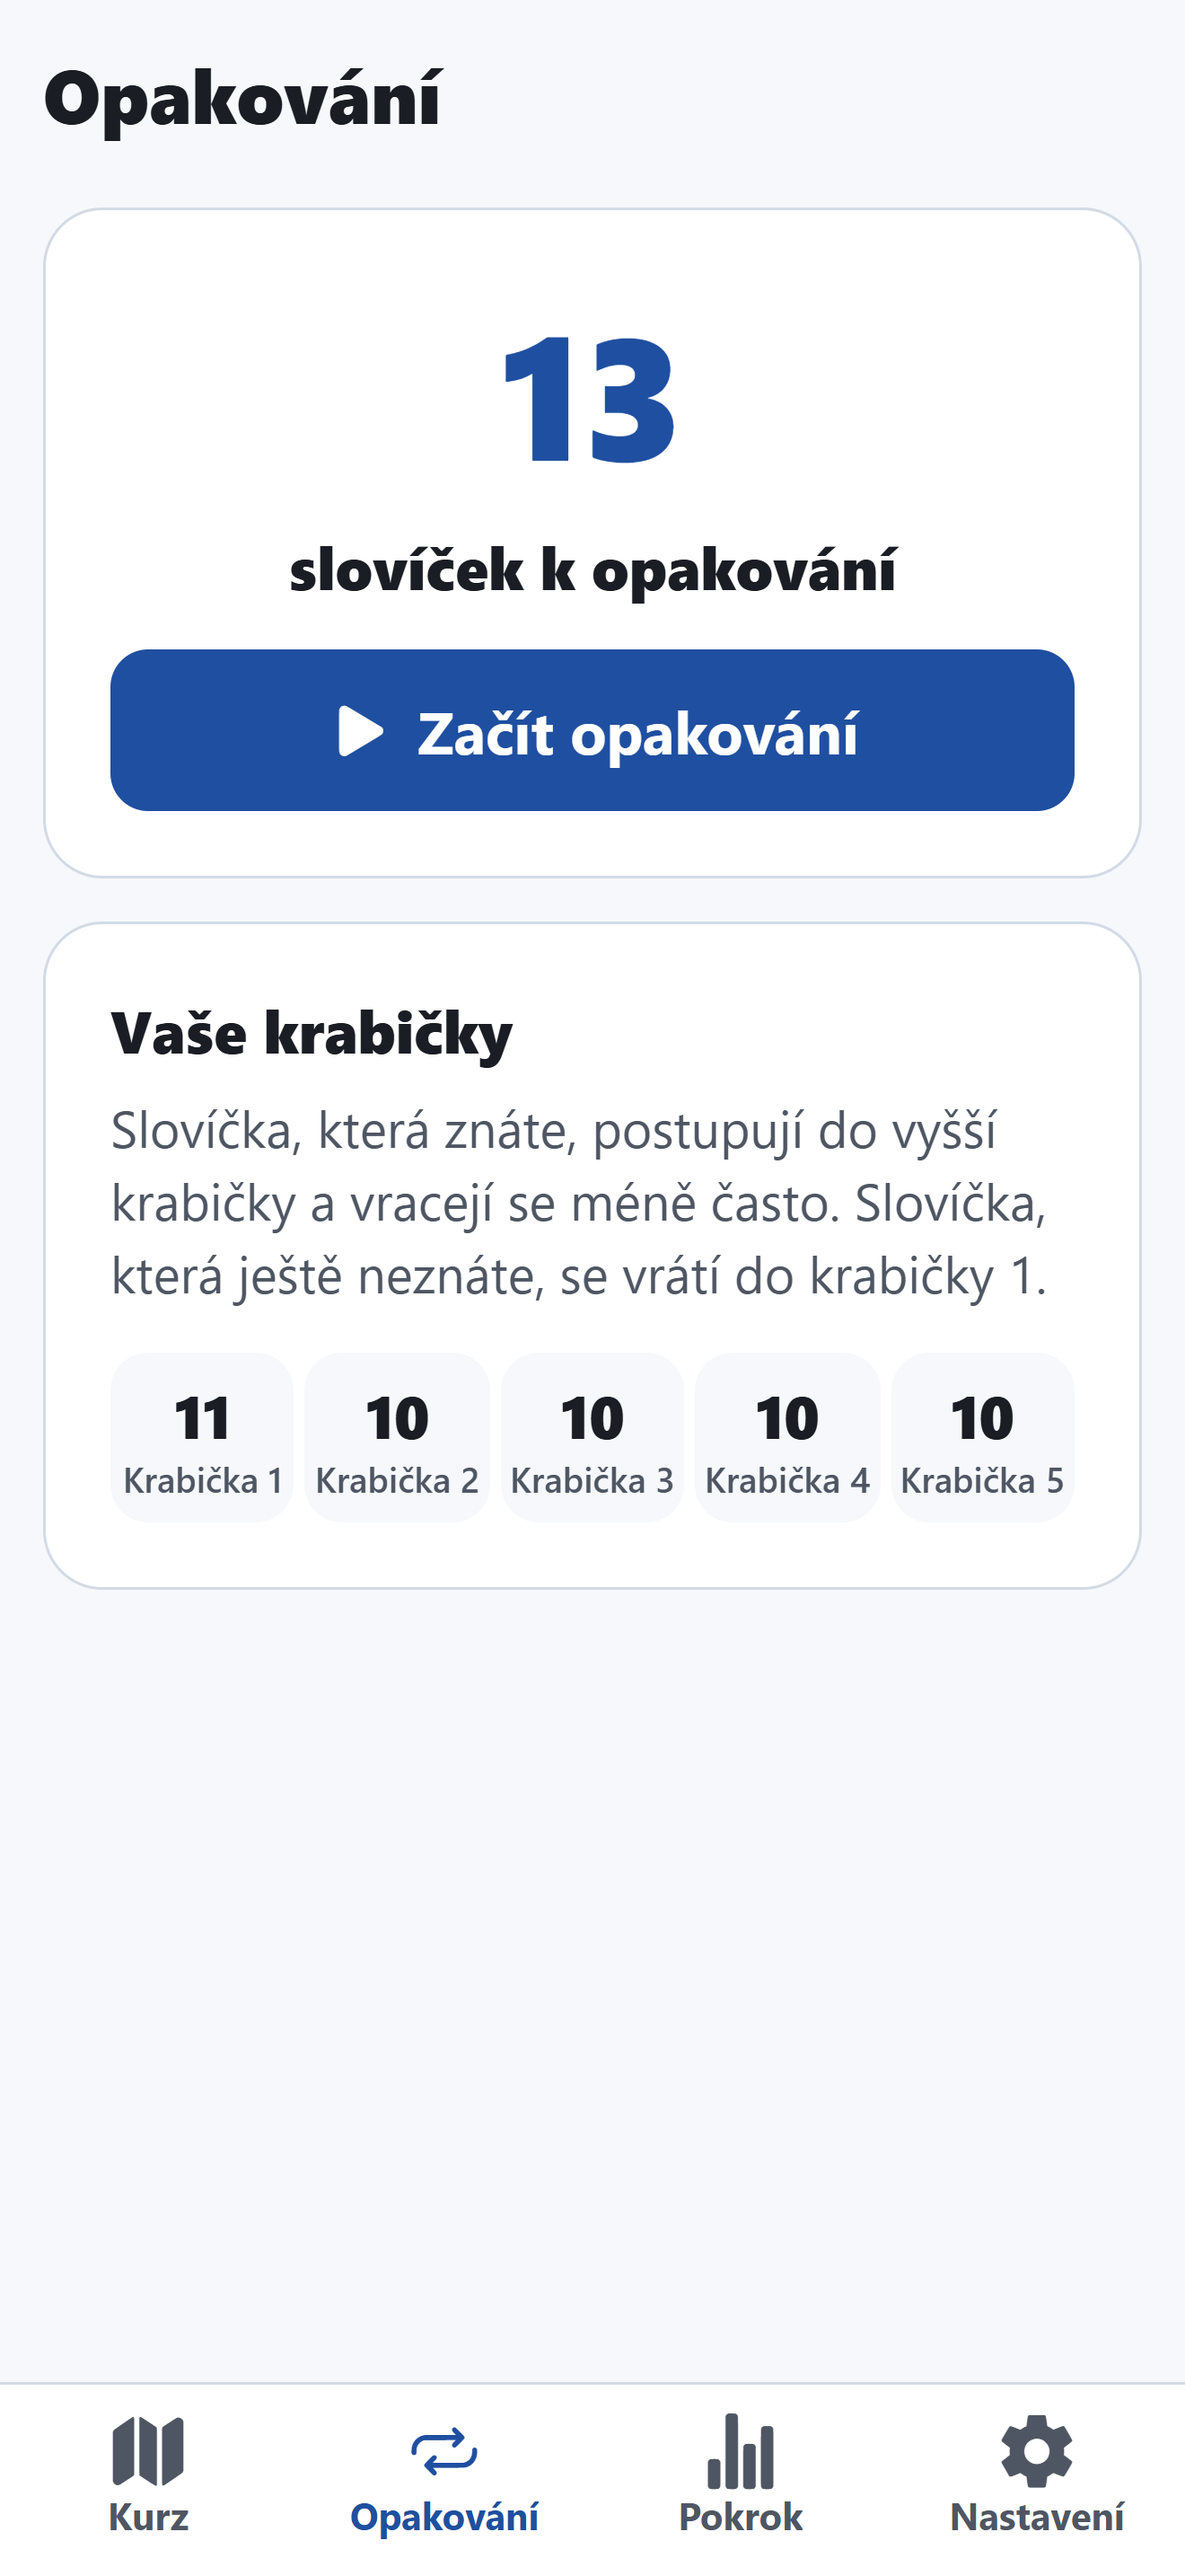
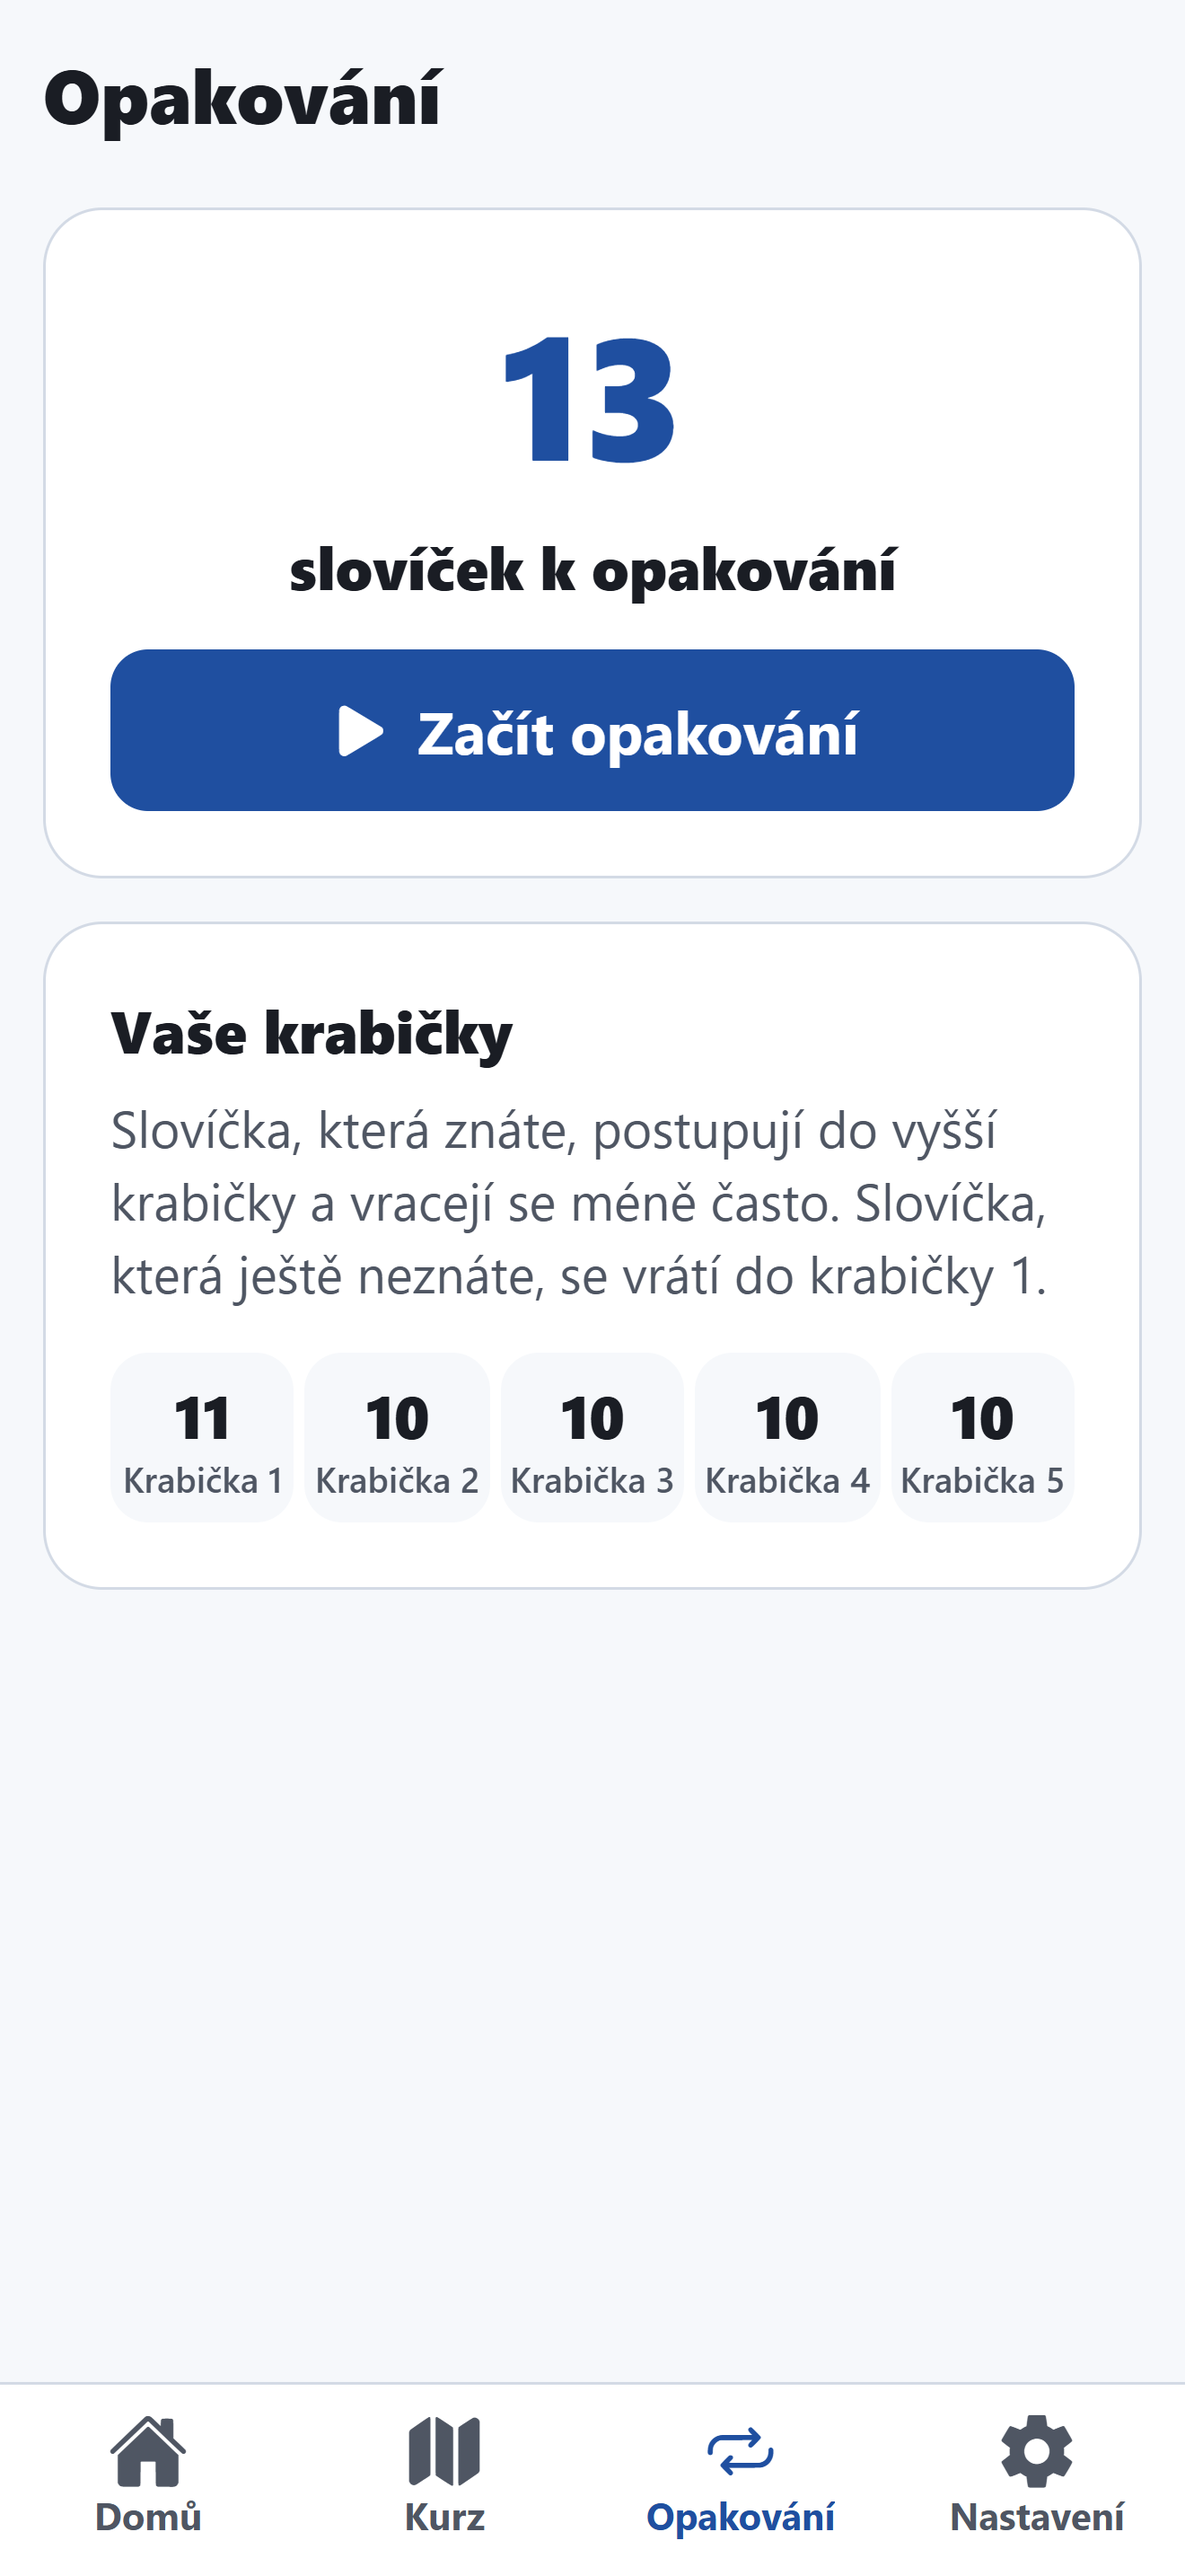
Refresh the store screenshots and add the English listing
Screenshots now open with the home screen and there is a full Romanian set.
The listing texts mention the daily reminder; the privacy page says it stays on the phone.

Claude-Session: https://claude.ai/code/session_017FVpQPx5NevvuaJghM5UMA

Changed region(s): [[0.5591, 0.931, 0.7144, 0.993], [0.3106, 0.931, 0.4659, 0.993], [0.0621, 0.931, 0.1553, 0.993]]

diff --git a/public/privacy.html b/public/privacy.html
@@ -38,12 +38,13 @@
 
   <section id="cs" lang="cs">
     <h2>Zásady ochrany soukromí</h2>
-    <p class="muted">Platné od 22. října 2026</p>
+    <p class="muted">Platné od 5. listopadu 2026</p>
     <p>Aplikace „Učíme se s Elenkou“ (na telefonu „Elenka“) slouží k výuce jazyků. Nemá účty ani reklamy, nesleduje vás a neposílá žádné statistiky o používání.</p>
 
     <h3>Co zůstává jen ve vašem telefonu</h3>
     <ul>
       <li>Váš postup v kurzech, opakování slovíček, nastavení a rodinný kód. Ukládají se pouze do telefonu (nebo prohlížeče) a nikam se neposílají.</li>
+      <li>Denní připomenutí, pokud si ho zapnete. Naplánuje ho přímo váš telefon; nic se kvůli němu nikam neposílá.</li>
       <li>Zálohu vytváříte sami jako text. Kam ji uložíte nebo komu ji pošlete, je na vás.</li>
     </ul>
 
@@ -65,12 +66,13 @@
 
   <section id="en" lang="en-GB">
     <h2>Privacy policy</h2>
-    <p class="muted">Effective from 22 October 2026</p>
+    <p class="muted">Effective from 5 November 2026</p>
     <p>“Učíme se s Elenkou” (shown as “Elenka” on the phone) is a language-learning app. It has no accounts and no adverts, does not track you and does not send any usage statistics.</p>
 
     <h3>What stays on your phone</h3>
     <ul>
       <li>Your course progress, flashcard reviews, settings and family code. They are stored only on your phone (or in your browser) and are not sent anywhere.</li>
+      <li>The daily reminder, if you switch it on. Your phone plans it by itself; nothing is sent anywhere for it.</li>
       <li>You create backups yourself, as text. Where you keep them or whom you send them to is up to you.</li>
     </ul>
 
@@ -92,12 +94,13 @@
 
   <section id="ro" lang="ro">
     <h2>Politica de confidențialitate</h2>
-    <p class="muted">În vigoare de la 22 octombrie 2026</p>
+    <p class="muted">În vigoare de la 5 noiembrie 2026</p>
     <p>„Učíme se s Elenkou” (pe telefon „Elenka”) este o aplicație pentru învățarea limbilor. Nu are conturi și nici reclame, nu te urmărește și nu trimite statistici de utilizare.</p>
 
     <h3>Ce rămâne doar pe telefonul tău</h3>
     <ul>
       <li>Progresul la cursuri, repetarea cuvintelor, setările și codul de familie. Se salvează doar pe telefon (sau în browser) și nu se trimit nicăieri.</li>
+      <li>Mementoul zilnic, dacă îl pornești. Îl planifică telefonul tău; nu se trimite nimic nicăieri pentru el.</li>
       <li>Copia de rezervă o creezi tu, ca text. Unde o păstrezi sau cui o trimiți depinde de tine.</li>
     </ul>
 

diff --git a/store/STORE_LISTING.md b/store/STORE_LISTING.md
@@ -49,6 +49,7 @@ OPAKOVÁNÍ A POKROK
 
 POHODLÍ
 • Velké písmo a velká tlačítka
+• Jemné denní připomenutí, které si můžete zapnout (v aplikaci pro iPhone a Android)
 • Funguje i bez internetu
 • Bez reklam, bez účtu, bez sledování – váš pokrok zůstává jen ve vašem telefonu
 • Zálohu pokroku si můžete uložit jako text a obnovit na jiném telefonu
@@ -98,11 +99,61 @@ RECAPITULARE ȘI PROGRES
 • Vezi cât ai progresat și câte zile la rând ai exersat
 
 • Text mare și butoane mari
+• Un memento zilnic discret, pe care îl poți porni (în aplicația pentru iPhone și Android)
 • Funcționează și fără internet
 • Fără reclame, fără cont, fără urmărire – progresul rămâne doar pe telefonul tău
 
 Aplicația conține și cursuri de engleză, germană și română pentru vorbitorii de cehă.
 Gratuit. Scrie-ne la contact@calmshops.co.uk.
+```
+
+## English (third listing, for Czech and Romanian speakers whose phone is set to English)
+
+Add as en-GB and en-US in App Store Connect (the US store doesn't use en-GB) and in Play Console.
+The screenshots stay Czech on purpose: they show what the app looks like.
+
+**Name**: `Elenka – Learn Languages`
+
+**App Store subtitle** (max 30): `For Czech & Romanian speakers`
+
+**Google Play short description** (max 80):
+`Language lessons in Czech and Romanian. No ads, no account, no stress.`
+
+**App Store keywords**: `czech,romanian,english,german,vocabulary,lessons,beginners,seniors,flashcards,czechia`
+
+**App Store promotional text**:
+`Short, calm language lessons for Czech and Romanian speakers, with voice and word review. No ads, no account, works offline.`
+
+**Description**:
+
+```
+Elenka is a calm language app for Czech and Romanian speakers. It was made for our own family and built so that complete beginners and older learners feel at home.
+
+Please note: the app and all its explanations are in Czech or Romanian. It is not a course for people who only speak English.
+
+COURSES
+• For Czech speakers: English (British), German and Romanian – levels A1, A2 and B1, 90 lessons each
+• For Romanian speakers: Czech – levels A1 and A2, 74 lessons
+
+HOW YOU LEARN
+• Short lessons with clear explanations
+• Varied exercises: choosing answers, listening, matching pairs, writing, building sentences and speaking aloud
+• Every word and sentence can be played aloud
+• Mistakes are fine: the app kindly shows the right answer and explains why
+• A test at the end of every unit
+
+REVIEW AND PROGRESS
+• Words come back smartly in five boxes: what you know returns less often
+• A progress overview and a gentle daily streak with no pressure
+
+COMFORT
+• Large text and large buttons
+• A gentle daily reminder you can switch on (in the iPhone and Android apps)
+• Works without internet
+• No adverts, no account, no tracking – your progress stays on your phone
+• Back up your progress and restore it on another phone
+
+The app is free. We would love to hear your ideas at contact@calmshops.co.uk.
 ```
 
 ## App Store Connect: other fields

diff --git a/store/APP_REVIEW_INFO.md b/store/APP_REVIEW_INFO.md
@@ -7,7 +7,7 @@ Attached to our reply in App Store Connect: recorded on a physical iPhone (lates
 Elenka is a free language-learning app for Czech speakers (English, German and Romanian courses, levels A1–B1) and for Romanian speakers learning Czech. It was built for our own family: older learners and complete beginners who find mainstream apps too fast, too small or too pushy. It offers short lessons with clear explanations in the learner's own language, large text and buttons, spaced-repetition flashcards, and no ads, accounts, tracking or purchases. Progress is stored only on the device.
 
 3. HOW TO USE THE MAIN FEATURES
-No login or setup is needed. On first launch, choose your native language and the language to learn, then tap "Začneme!" (Let's start). The app opens on the home screen "Domů" (Home): tap the big "Začít" (Start) button to begin the first lesson and answer the exercises. The whole course is on the "Kurz" (Course) tab, words to repeat under "Opakování" (Review), and statistics under the "Pokrok" (Progress) tile on the home screen. "Sdílet aplikaci" (Share the app) opens the system share sheet with a link to the app's web page. "Nastavení" (Settings) contains the languages, reading speed and voice, the microphone exercises switch and a backup of progress.
+No login or setup is needed. On first launch, choose your native language and the language to learn, then tap "Začneme!" (Let's start). The app opens on the home screen "Domů" (Home): tap the big "Začít" (Start) button to begin the first lesson and answer the exercises. The whole course is on the "Kurz" (Course) tab, words to repeat under "Opakování" (Review), and statistics under the "Pokrok" (Progress) tile on the home screen. "Sdílet aplikaci" (Share the app) opens the system share sheet with a link to the app's web page. "Nastavení" (Settings) contains the languages, an optional daily reminder (a local notification made on the phone), reading speed and voice, the microphone exercises switch and a backup of progress.
 Optional "Řekněte nahlas" (Say it out loud) exercises use the microphone; they can be turned off in Nastavení > "Cvičení s mikrofonem".
 Optional family feature: an AI conversation partner ("Konverzace") is hidden until a family access code is entered in Nastavení > Konverzace s AI > Rodinný kód. To test it, enter the code given at the end of these notes, tap "Uložit kód", finish all lessons of any unit, then tap "Konverzace" at the bottom of that unit.
 
